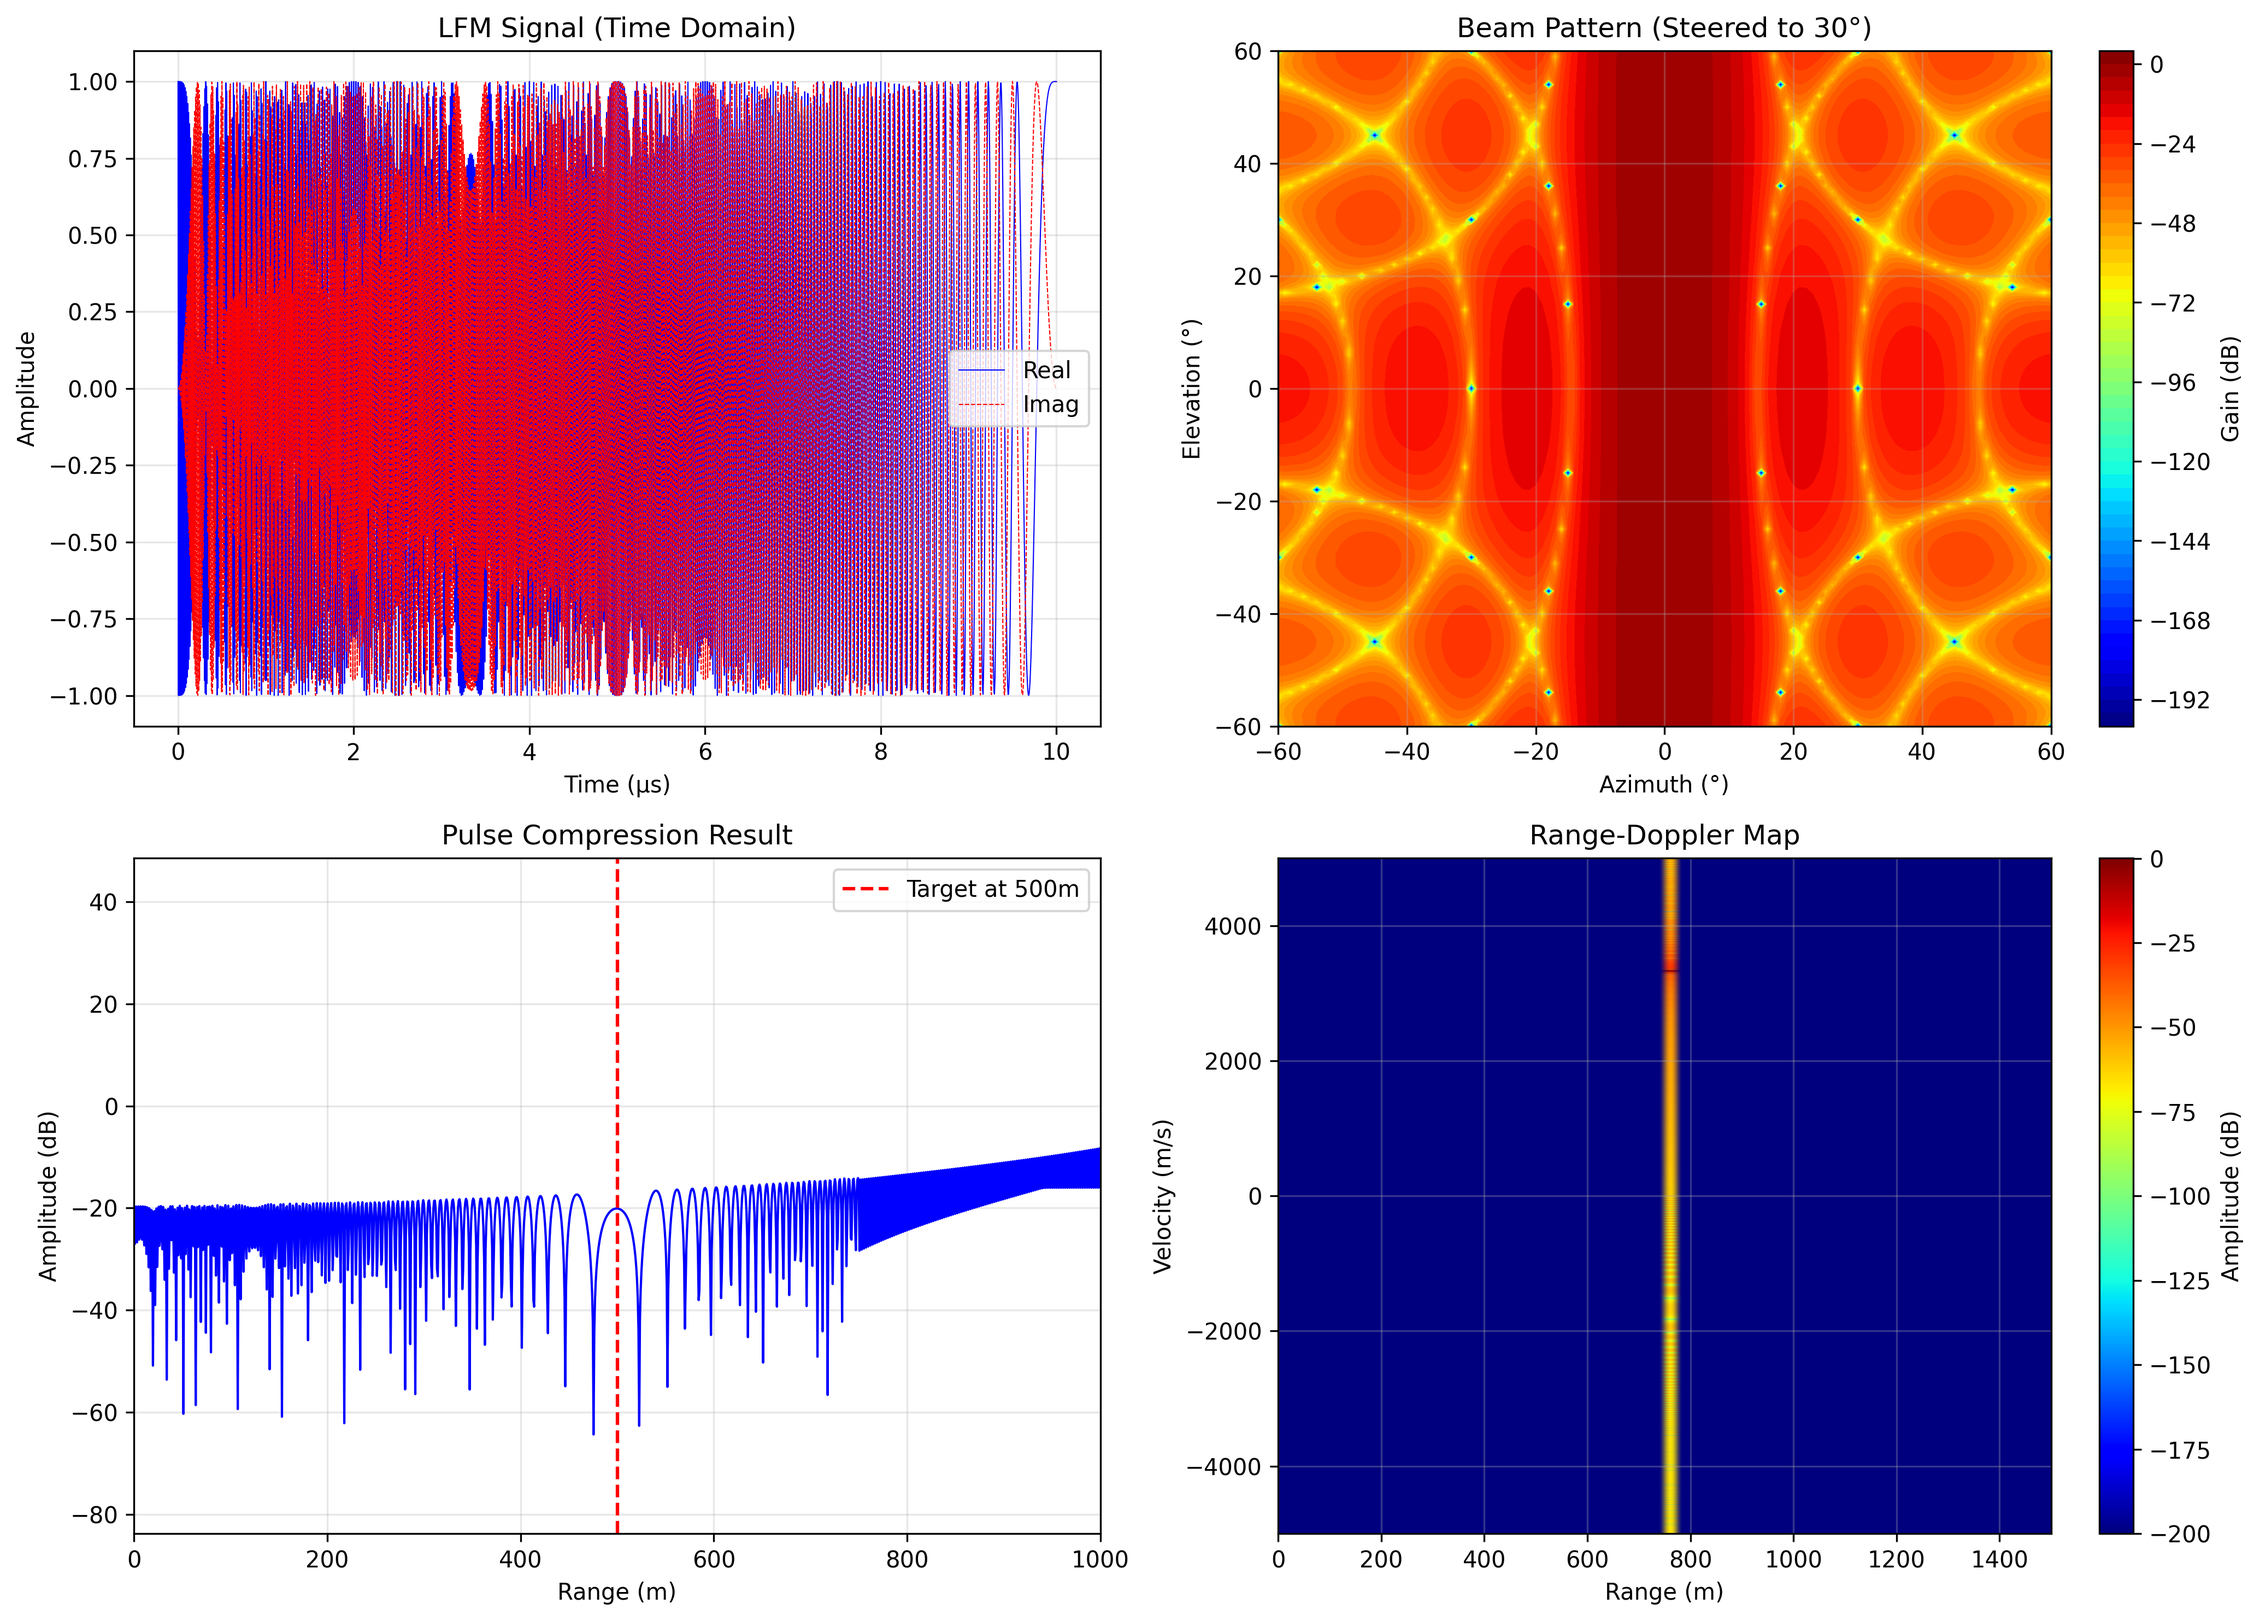
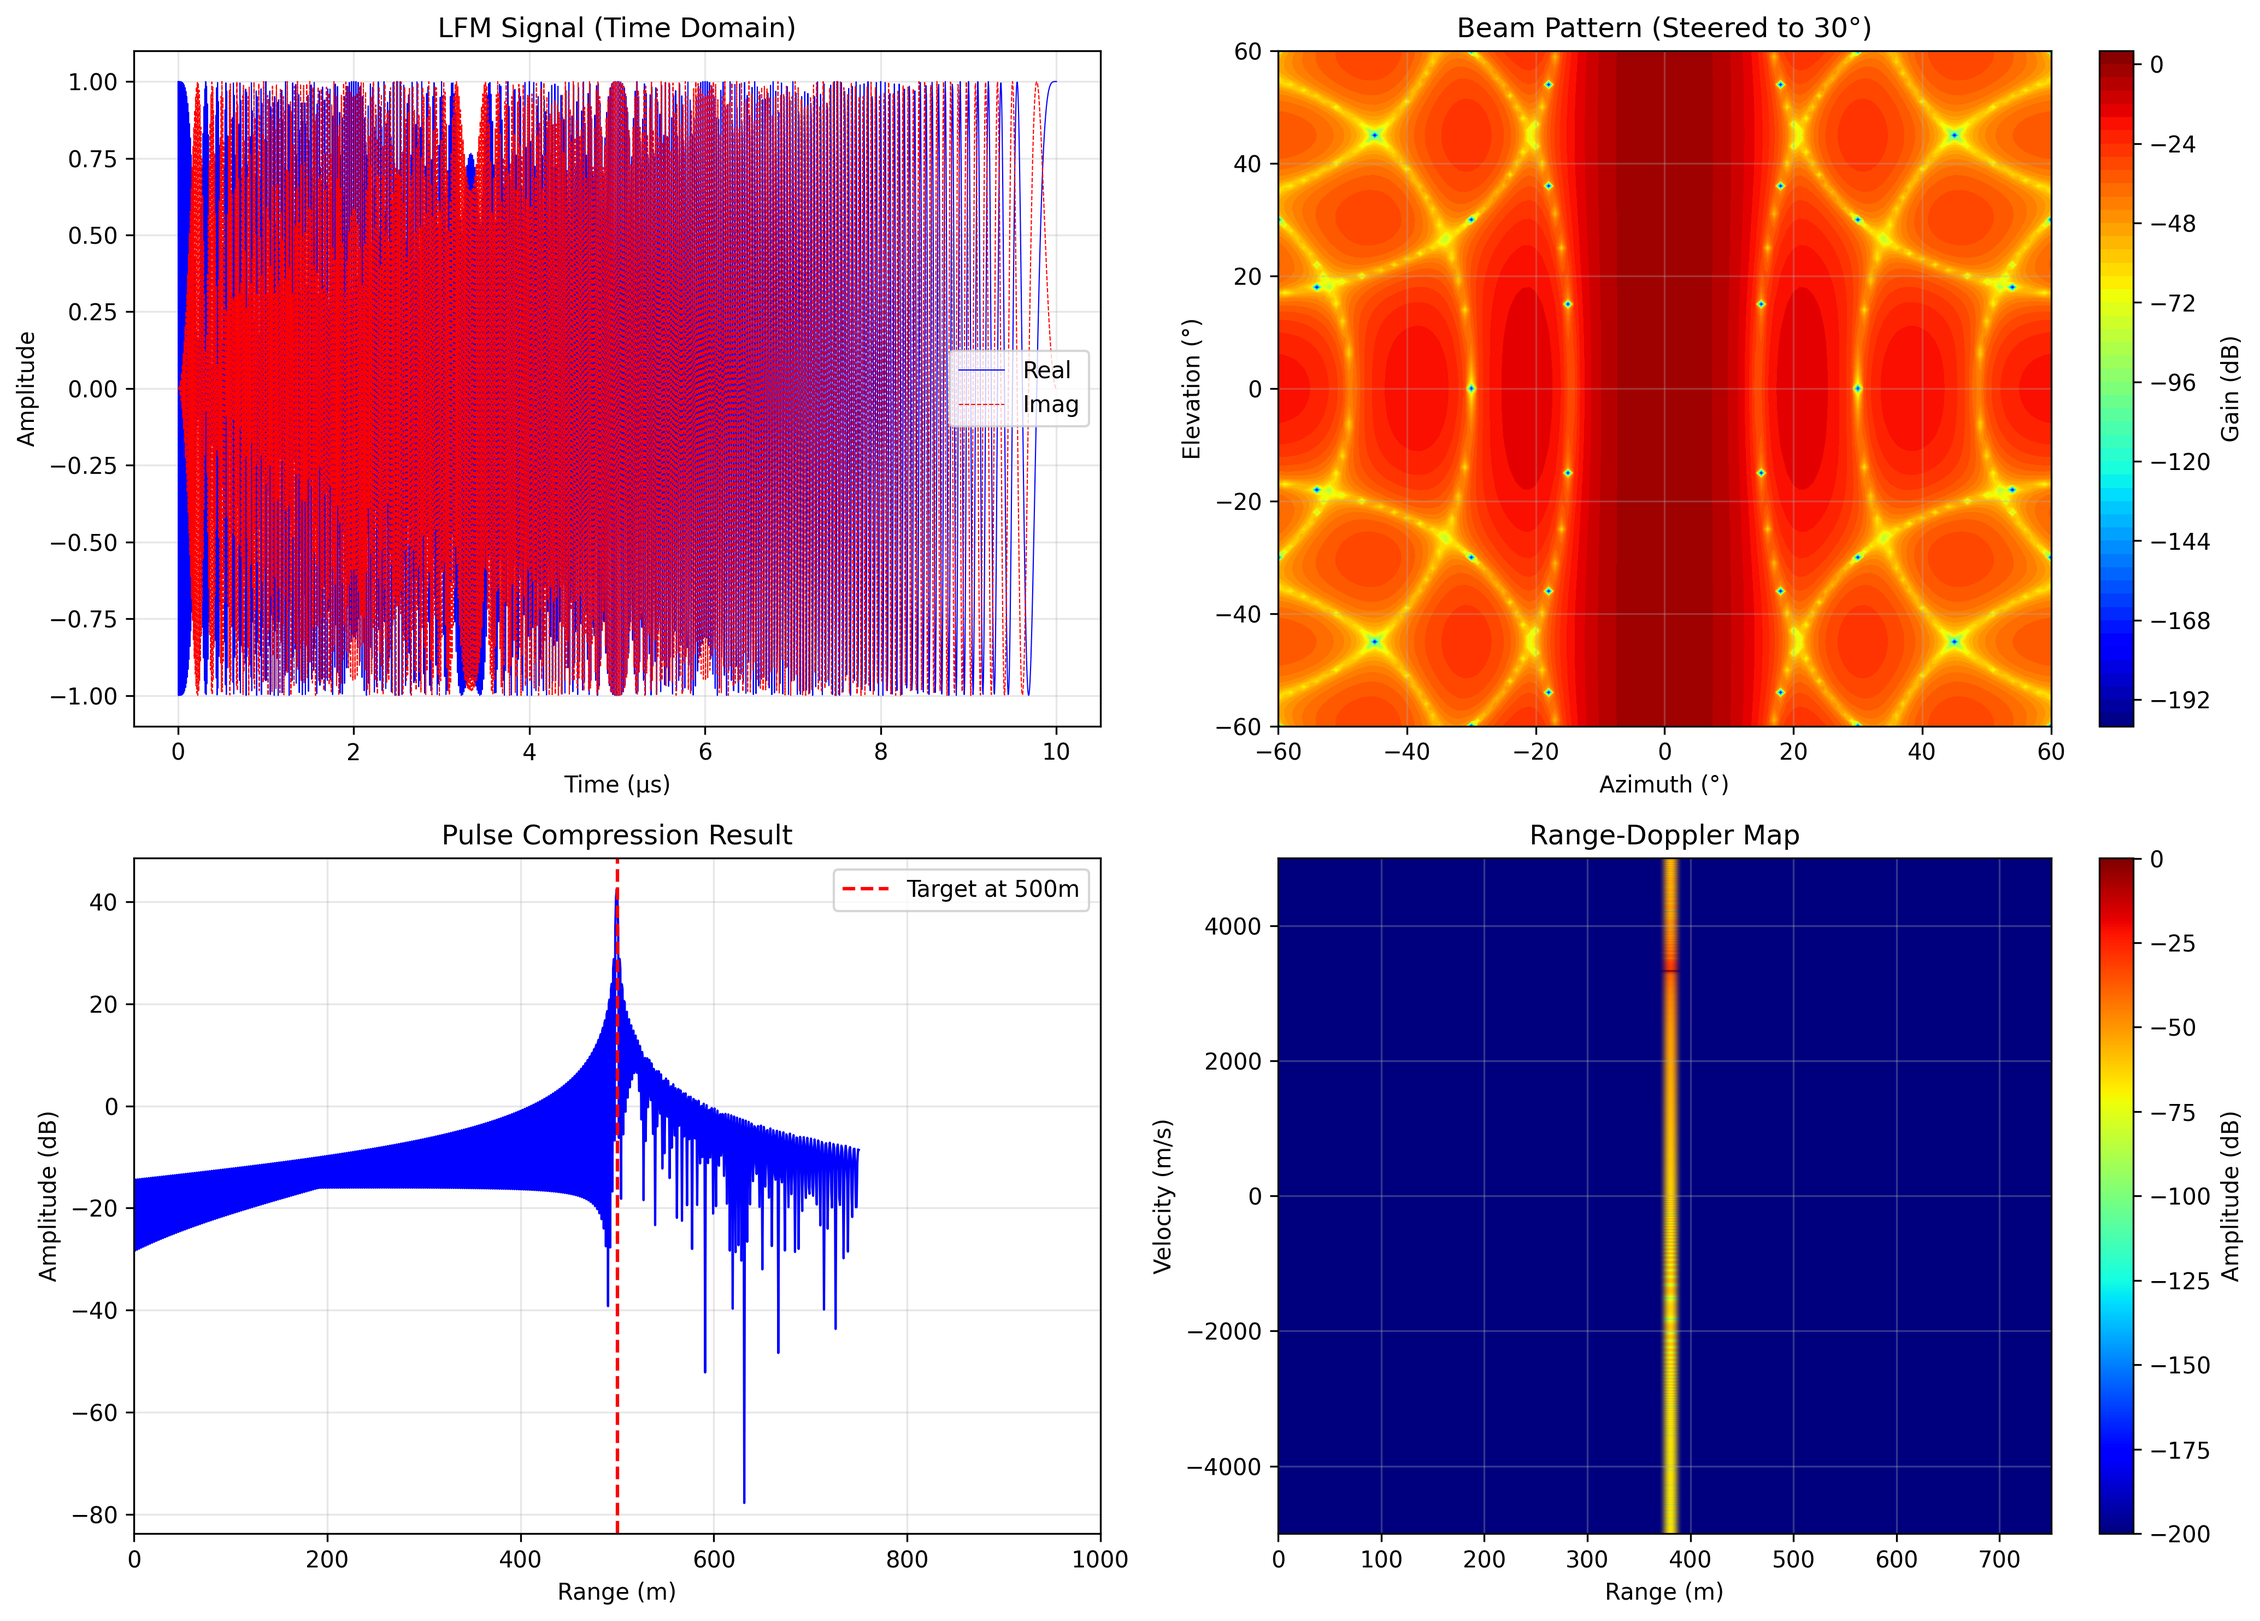
Fix range axis offset in pulse compression plot
Matched-filter 'same' mode introduces a fixed delay of
(n-1)-(n-1)//2 samples; the range axis did not compensate, so the
compressed peak was mapped beyond the plotted window. Compensate the
axis and regenerate the result figure (peak now aligns with the 500 m
target marker).

Changed region(s): [[0.0624, 0.5893, 0.499, 0.8685]]

diff --git a/6_Simulation/stc_simulation.py b/6_Simulation/stc_simulation.py
@@ -260,7 +260,10 @@ def main():
     
     # 图 3: 脉冲压缩结果
     ax3 = axes[1, 0]
-    range_axis = np.arange(len(compressed)) * c / (2 * fs)
+    # 匹配滤波 'same' 模式引入 (n-1)-(n-1)//2 个采样点的时延偏移，
+    # 补偿后脉冲压缩峰值对齐到目标真实距离
+    delay_offset = (len(compressed) - 1) - (len(compressed) - 1) // 2
+    range_axis = (np.arange(len(compressed)) - delay_offset) * c / (2 * fs)
     ax3.plot(range_axis, 20 * np.log10(np.abs(compressed) + 1e-10), 'b-', linewidth=1)
     ax3.set_xlabel('Range (m)')
     ax3.set_ylabel('Amplitude (dB)')
